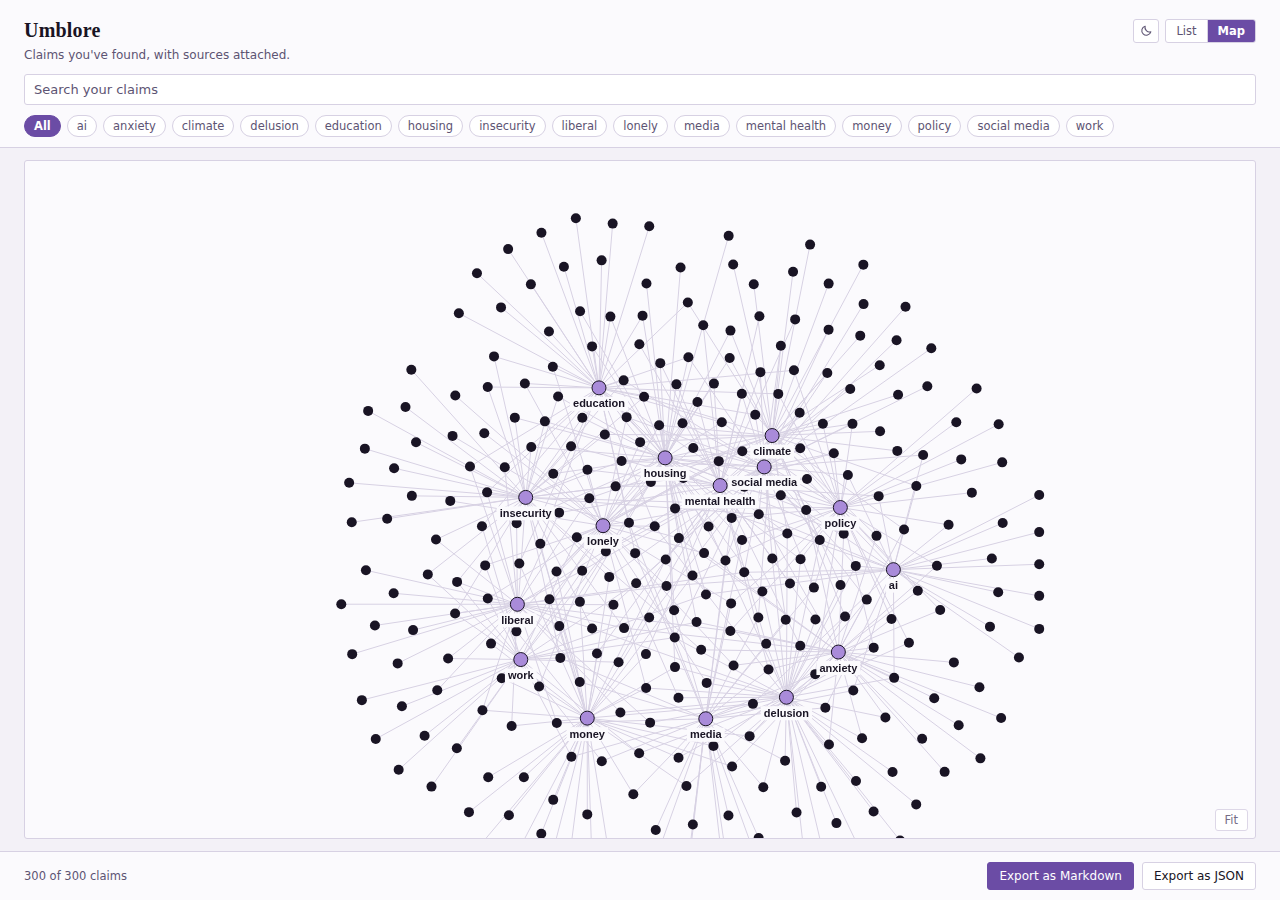
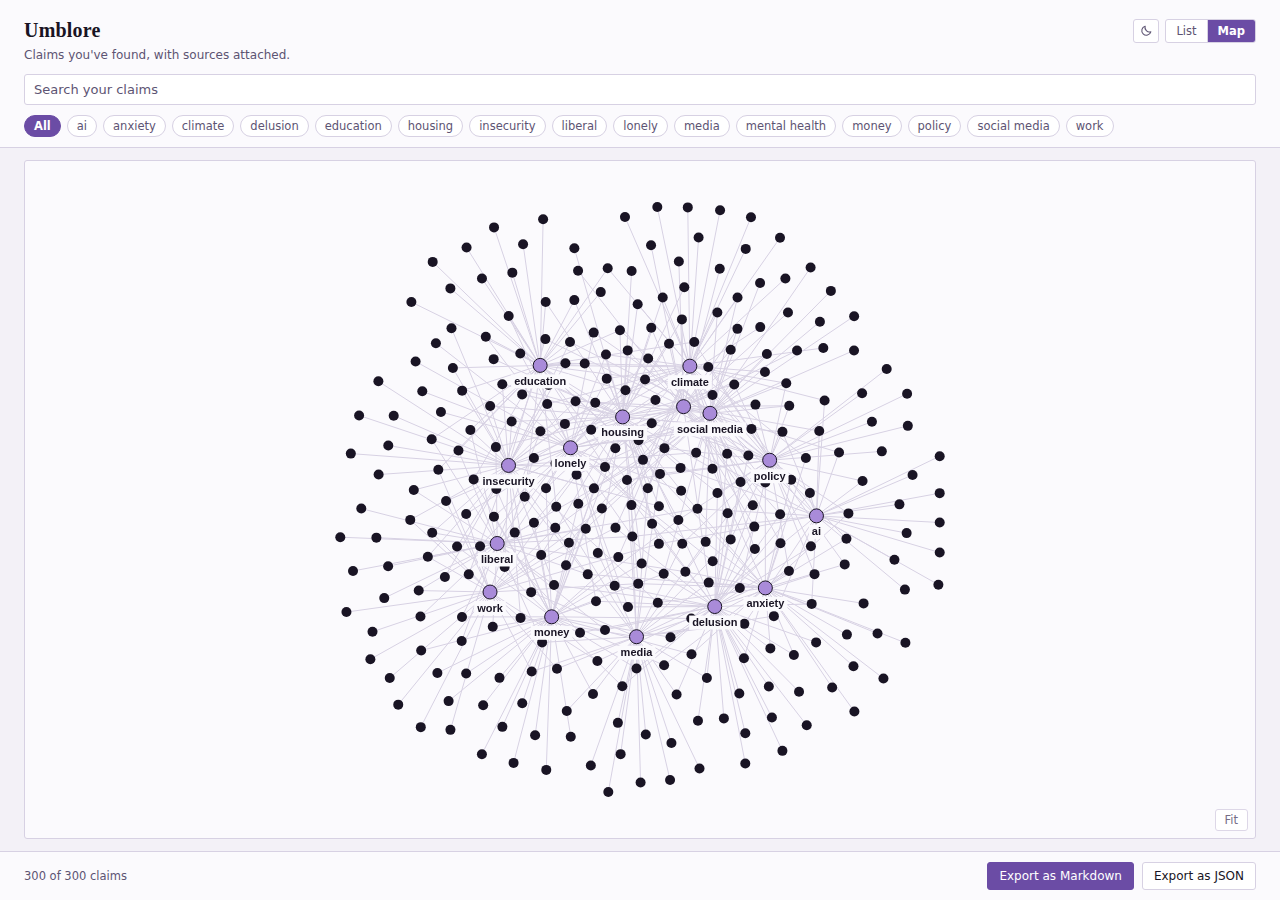
Add files via upload

Changed region(s): [[0.25, 0.2178, 0.7812, 0.9333], [0.7812, 0.56, 0.8125, 0.5911]]

diff --git a/sidepanel.js b/sidepanel.js
@@ -325,10 +325,12 @@ function readThemeColors() {
 }
 
 let nodes = [];
+let energy = Infinity;
 let edges = [];
 // camera over the graph: k is zoom, x/y is the pan offset in screen pixels
 let cam = { x: 0, y: 0, k: 1 };
 let panFrom = null;
+let didDrag = false;
 let needsFit = true;
 let selectedId = null;
 let animFrame = null;
@@ -380,6 +382,8 @@ function buildGraph() {
     });
     tagsOf(claim).forEach((t) => {
       edges.push({ a: "claim:" + claim.id, b: "tag:" + t });
+      const hub = nodes.find((n) => n.id === "tag:" + t);
+      if (hub) hub.degree = (hub.degree || 0) + 1;
     });
   });
 }
@@ -387,11 +391,12 @@ function buildGraph() {
 // The layout runs in its own coordinate space, sized to the number of
 // nodes rather than to the viewport, so a big graph simply gets a bigger
 // world and you pan around it instead of everything being crushed together.
+// Deliberately independent of the canvas: if the world depended on the
+// viewport, opening the detail panel would resize the canvas, change the
+// layout, and shuffle every node on screen.
 function worldSize() {
-  const w = canvas.clientWidth || 360;
-  const h = canvas.clientHeight || 380;
   const span = Math.sqrt(Math.max(nodes.length, 1)) * 115;
-  return { w: Math.max(w, span), h: Math.max(h, span) };
+  return { w: Math.max(560, span), h: Math.max(560, span) };
 }
 
 function tick() {
@@ -449,6 +454,7 @@ function tick() {
   });
 
   // gentle pull to centre + integrate
+  energy = 0;
   nodes.forEach((n) => {
     n.vx += (w / 2 - n.x) * 0.0022;
     n.vy += (h / 2 - n.y) * 0.0022;
@@ -463,6 +469,7 @@ function tick() {
       n.x += n.vx;
       n.y += n.vy;
     }
+    energy += n.vx * n.vx + n.vy * n.vy;
     // tag labels sit below and extend either side of the node, so the
     // clamp has to account for the text box, not just the circle
     const pad = n.r + 4;
@@ -523,34 +530,67 @@ function draw() {
   ctx.font = "600 11px -apple-system, 'Segoe UI', sans-serif";
   ctx.textAlign = "center";
   ctx.textBaseline = "top";
-  nodes.forEach((n) => {
-    if (n.kind !== "tag") return;
-    const x = sx(n);
-    const y = sy(n);
-    if (x < -60 || y < -20 || x > w + 60 || y > h + 20) return; // offscreen
-    const tw = ctx.measureText(n.label).width;
-    ctx.fillStyle = COLORS.paper;
-    ctx.fillRect(x - tw / 2 - 3, y + n.r + 2, tw + 6, 14);
-    ctx.fillStyle = COLORS.ink;
-    ctx.fillText(n.label, x, y + n.r + 4);
-  });
+
+  // Draw the busiest topics first and skip any label that would collide
+  // with one already placed, so a crowded map stays readable. Zooming in
+  // spreads the nodes out and the skipped labels reappear.
+  const placed = [];
+  const overlaps = (b) =>
+    placed.some(
+      (p) => b.x < p.x + p.w && b.x + b.w > p.x && b.y < p.y + p.h && b.y + b.h > p.y
+    );
+
+  nodes
+    .filter((n) => n.kind === "tag")
+    .sort((a, b) => (b.degree || 0) - (a.degree || 0))
+    .forEach((n) => {
+      const x = sx(n);
+      const y = sy(n);
+      if (x < -60 || y < -20 || x > w + 60 || y > h + 20) return; // offscreen
+      const tw = ctx.measureText(n.label).width;
+      const box = { x: x - tw / 2 - 3, y: y + n.r + 2, w: tw + 6, h: 14 };
+      if (overlaps(box)) return;
+      placed.push(box);
+      ctx.fillStyle = COLORS.paper;
+      ctx.fillRect(box.x, box.y, box.w, box.h);
+      ctx.fillStyle = COLORS.ink;
+      ctx.fillText(n.label, x, y + n.r + 4);
+    });
 }
 
-let settleTicks = 0;
+// Run the layout to completion off-screen so the graph appears already
+// arranged, instead of visibly flailing and then snapping into place.
+function settle(steps) {
+  for (let i = 0; i < steps; i++) {
+    tick();
+    if (energy / Math.max(nodes.length, 1) < 0.05) break;
+  }
+  freeze();
+}
+
+// Park the layout: no residual velocity means no slow drift while you read.
+function freeze() {
+  nodes.forEach((n) => {
+    n.vx = 0;
+    n.vy = 0;
+  });
+  energy = 0;
+}
 
 function animate() {
   tick();
-  // let the layout relax, then frame it once
-  if (needsFit && ++settleTicks > 90) {
-    fitToContent();
-    needsFit = false;
-  }
   draw();
+  // only runs while a node is being dragged; pointerup stops it
+  if (!dragNode) {
+    animFrame = null;
+    return;
+  }
   animFrame = requestAnimationFrame(animate);
 }
 
+// Nudge the physics back into motion (after a drag, a filter change, etc.)
 function startAnimation() {
-  if (animFrame === null) animate();
+  if (animFrame === null) animFrame = requestAnimationFrame(animate);
 }
 
 function stopAnimation() {
@@ -631,6 +671,7 @@ canvas.addEventListener("pointerdown", (evt) => {
     return;
   }
   dragNode = n;
+  didDrag = false;
   canvas.setPointerCapture(evt.pointerId);
 });
 
@@ -638,6 +679,7 @@ canvas.addEventListener("pointermove", (evt) => {
   if (panFrom) {
     cam.x = panFrom.camX + (evt.clientX - panFrom.x);
     cam.y = panFrom.camY + (evt.clientY - panFrom.y);
+    draw();
     return;
   }
   if (!dragNode) return;
@@ -647,32 +689,54 @@ canvas.addEventListener("pointermove", (evt) => {
   dragNode.y = p.y;
   dragNode.vx = 0;
   dragNode.vy = 0;
+  didDrag = true;
+  startAnimation();
 });
 
 canvas.addEventListener("pointerup", () => {
+  const wasDragging = dragNode && didDrag;
   dragNode = null;
   panFrom = null;
+  didDrag = false;
+  stopAnimation();
+  if (wasDragging) {
+    // let neighbours relax around the moved node, then settle again
+    settle(120);
+  }
+  draw();
 });
 
 canvas.addEventListener("pointercancel", () => {
   dragNode = null;
   panFrom = null;
+  didDrag = false;
+  stopAnimation();
+  freeze();
+  draw();
 });
 
-fitBtn.addEventListener("click", () => fitToContent());
+fitBtn.addEventListener("click", () => {
+  fitToContent();
+  draw();
+});
 
 // The canvas changes height when the detail panel opens or the window
 // resizes. Shift the camera by half the delta so whatever you were
 // looking at stays put instead of sliding out of frame.
+// The canvas changes size when the detail panel opens or the window is
+// resized. The layout itself is unaffected (the world is independent of the
+// canvas), so only the camera needs adjusting: shift by half the delta to
+// keep the same point centred rather than cropping the graph.
 let lastCanvasSize = null;
 if (typeof ResizeObserver !== "undefined") {
   new ResizeObserver(() => {
     const w = canvas.clientWidth;
     const h = canvas.clientHeight;
     if (!w || !h) return;
-    if (lastCanvasSize) {
+    if (lastCanvasSize && view === "map") {
       cam.x += (w - lastCanvasSize.w) / 2;
       cam.y += (h - lastCanvasSize.h) / 2;
+      draw();
     }
     lastCanvasSize = { w, h };
   }).observe(canvas);
@@ -687,6 +751,7 @@ canvas.addEventListener("wheel", (evt) => {
   cam.k = Math.max(0.1, Math.min(cam.k * factor, 4));
   cam.x = x - before.x * cam.k;
   cam.y = y - before.y * cam.k;
+  draw();
 }, { passive: false });
 
 function renderNodeDetail() {
@@ -810,11 +875,11 @@ function render() {
     mapEmptyEl.hidden = anyTags;
     if (anyTags) {
       buildGraph();
-      needsFit = true;
-      settleTicks = 0;
+      settle(400);
+      fitToContent();
       if (!nodes.some((n) => n.id === selectedId)) selectedId = null;
       renderNodeDetail();
-      startAnimation();
+      draw();
     } else {
       stopAnimation();
       nodeDetailEl.hidden = true;
